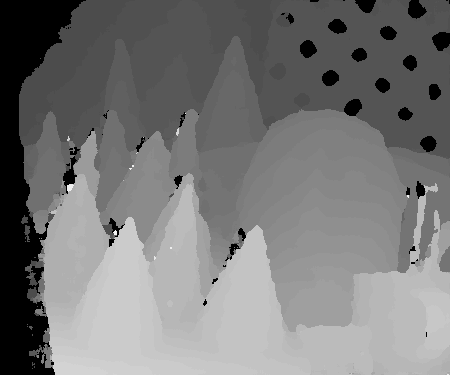
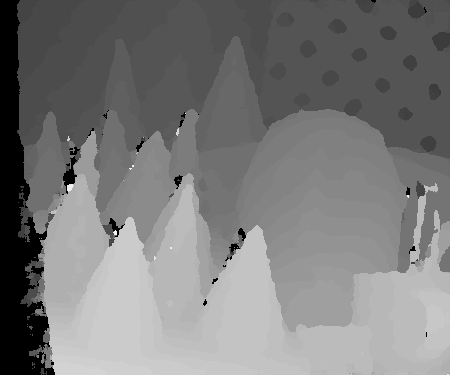
Fixed occl filter

diff --git a/algoSGM/stereomatch.py b/algoSGM/stereomatch.py
@@ -53,7 +53,7 @@ def main(left_image, right_image, output_file):
         # Postprocessing
         left_disparity_map = mode_filter(left_disparity_map, msize)
         left_disparity_map = 255.0 * left_disparity_map / maxdisp
-        left_disparity_map = np.where(left_disparity_map <= 70, 0, left_disparity_map)
+        left_disparity_map = np.where(left_disparity_map <= 56, 0, left_disparity_map)
 
         # Save to output_file
         cv2.imwrite(output_file, left_disparity_map)
